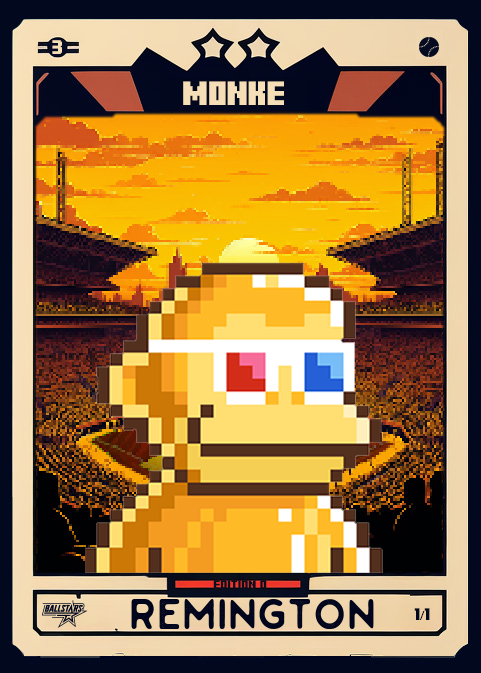
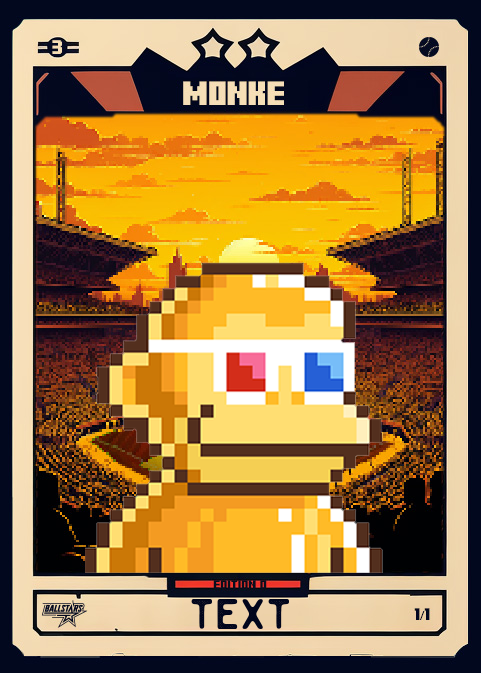
working API need image resize

Changed region(s): [[0.2495, 0.8737, 0.7796, 0.9361]]

diff --git a/main.py b/main.py
@@ -1,13 +1,78 @@
-from fastapi import FastAPI
+import boto3
+from fastapi import FastAPI, HTTPException
+from PIL import Image
+from io import BytesIO
+from config import *
 
 app = FastAPI()
 
+# Initialize AWS S3 client
+s3_client = boto3.client(
+    "s3",
+    # Provide your AWS credentials and region
+    aws_access_key_id=AWS_ACCESS_KEY_ID,
+    aws_secret_access_key=AWS_SECRET_ACCESS_KEY,
+    region_name=AWS_REGION_NAME
+)
 
-@app.get("/")
-async def root():
-    return {"message": "Hello World"}
+def merge_images(image1_path: str, image2_path: str, text: str = "TEXT"):
+    try:
+        # Parse S3 paths
+        image1_bucket, image1_key = image1_path.split("//")[1].split("/", 1)
+        print(image1_bucket, image1_key)
+        image2_bucket, image2_key = image2_path.split("//")[1].split("/", 1)
+
+        # Download images from S3
+        image1_obj = s3_client.get_object(Bucket=image1_bucket, Key=image1_key)
+        image2_obj = s3_client.get_object(Bucket=image2_bucket, Key=image2_key)
+
+        # Open images from S3 objects
+        image1 = Image.open(BytesIO(image1_obj['Body'].read()))
+        image2 = Image.open(BytesIO(image2_obj['Body'].read()))
+
+        # Merge the images
+        # Your merge logic here
+
+        # Example merge logic (pasting image2 onto image1)
+        image1.paste(image2, (0, 0), image2)
+
+        # Convert the merged image to bytes
+        output_buffer = BytesIO()
+        image1.save(output_buffer, format="PNG")
+        output_buffer.seek(0)
+
+        # Return the merged image as bytes
+        return output_buffer.getvalue()
+    except Exception as e:
+        raise HTTPException(status_code=500, detail=str(e))
 
 
-@app.get("/hello/{name}")
-async def say_hello(name: str):
-    return {"message": f"Hello {name}"}
+def upload_to_s3(image_data: bytes, filename: str):
+    try:
+        # Upload the merged image to S3
+        s3_client.put_object(
+            Bucket="futuresportsimages",
+            Key= "output/" + filename,
+            Body=image_data,
+            ContentType="image/png"  # Adjust content type as needed
+        )
+        # Return the URL of the uploaded image
+        s3_object_url = f"https://YOUR_S3_BUCKET_NAME.s3.YOUR_AWS_REGION_NAME.amazonaws.com/{filename}"
+        return s3_object_url
+    except Exception as e:
+        raise HTTPException(status_code=500, detail=str(e))
+
+
+@app.post("/merge_and_upload")
+async def merge_and_upload(image1_path: str, image2_path: str, text: str = "TEXT"):
+    try:
+        # Merge images
+        merged_image_bytes = merge_images(image1_path, image2_path, text)
+        # Upload merged image to S3
+        filename = "merged_image.png"  # Specify a filename for the merged image
+        s3_object_url = upload_to_s3(merged_image_bytes, filename)
+        return {"s3_object_url": s3_object_url}
+    except HTTPException as e:
+        raise e
+    except Exception as e:
+        raise HTTPException(status_code=500, detail=str(e))

diff --git a/tests.py b/tests.py
@@ -1,0 +1,35 @@
+import requests
+
+backgrounds = [
+    "https://ibb.co/P6gkFB2",
+    "https://ibb.co/MVkWyz3",
+    "https://ibb.co/R2q7npV",
+    "https://ibb.co/ZNLzSqN",
+    "https://ibb.co/zRyNfkV"
+]
+
+pfp = "https://ibb.co/GdpkPmz"
+
+
+def test_merge_images_with_urls():
+    url = "http://localhost:8000/merge_images"
+
+    for background_url in backgrounds:
+        data = {
+            "image1_url": pfp,
+            "image2_url": background_url
+        }
+
+        response = requests.post(url, json=data)
+        print(response.content)
+        # assert response.status_code == 200
+        # assert response.headers["Content-Type"] == "image/png"
+
+        filename = f"merged_image_{backgrounds.index(background_url)}.png"
+        with open(filename, "wb") as f:
+            f.write(response.content)
+
+
+if __name__ == "__main__":
+    test_merge_images_with_urls()
+    print("Tests passed.")

diff --git a/api_functions.py b/api_functions.py
@@ -1,0 +1,14 @@
+import requests
+from PIL import Image
+from io import BytesIO
+
+def download_image_from_url(url):
+    try:
+        response = requests.get(url)
+        if response.status_code == 200:
+            return Image.open(BytesIO(response.content))
+        else:
+            return None
+    except Exception as e:
+        print(f"Error downloading image from {url}: {e}")
+        return None

diff --git a/image_functions.py b/image_functions.py
@@ -11,9 +11,6 @@ def select_image():
     return file_path
 
 
-from PIL import Image, ImageDraw, ImageFont
-
-
 def merge_images_with_text(image1_path, image2_path, text="TEXT", font_path="Fjord_Regular.ttf", font_size=40,
                            text_color=(1, 5, 28)):
     # Open your images
